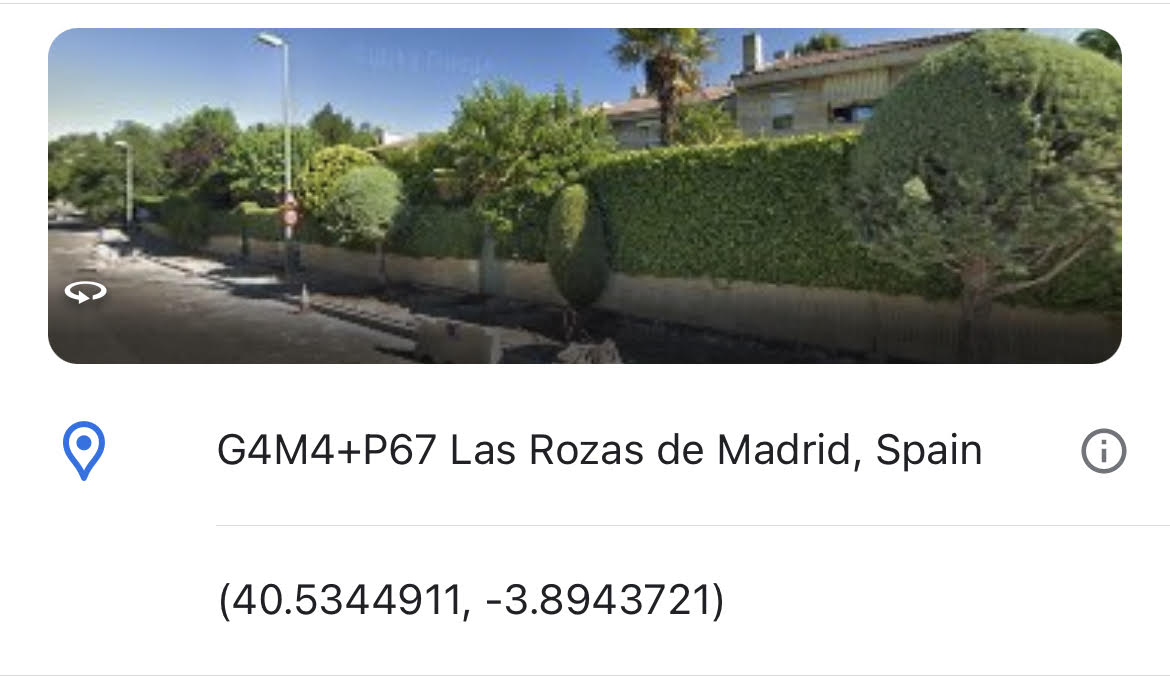
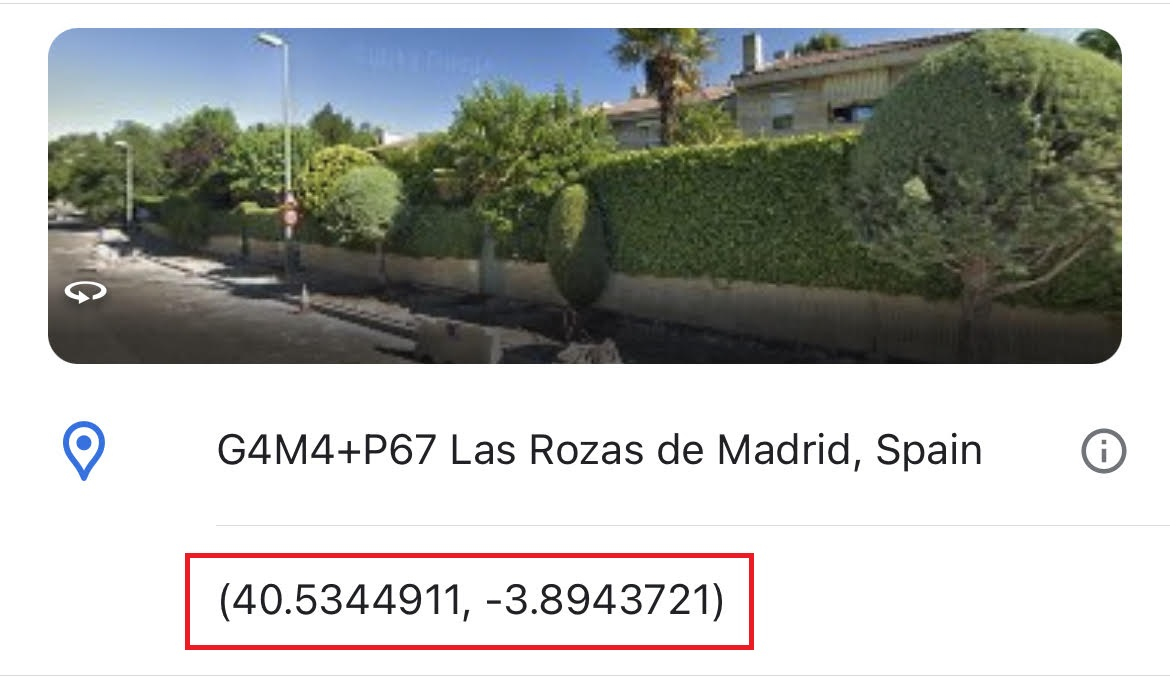
feat: adjust location explanations

Changed region(s): [[0.1538, 0.8018, 0.6462, 0.9559]]

diff --git a/components/LocationExplanation.js b/components/LocationExplanation.js
@@ -5,10 +5,10 @@ const LocationExplanation = () => {
     return(
     <details>
         <summary>What should go here?</summary>
-    <p className='location__explanation'>Copy the co-ordinates from the address bar on Google Maps or you can simply paste the whole URL! On mobile, simply copy the coordinates.</p>
-    <img className='location__image' id="location-explanation" alt="screenshot of part of a Google Street View URL with red box around co-ordinates" src={locationExplanation.src}></img>
-    <br />
-    <img className='location__image' id="location-explanation2" alt="screenshot from Google Street View app" height={200} src={locationExplanation2.src}></img>
+    <p className='location__explanation'>Simply paste the address from Google Maps. On mobile, simply copy the coordinates.</p>
+    <img className='location__image' width={'100%'} id="location-explanation" alt="screenshot of part of a Google Street View URL with red box around co-ordinates" src={locationExplanation.src}></img>
+    <p className='location__explanation'>OR</p>
+    <img className='location__image' id="location-explanation2" alt="screenshot from Google Street View app" height={150} src={locationExplanation2.src}></img>
     </details>
     );
 }

diff --git a/css/style.css b/css/style.css
@@ -37,6 +37,12 @@
   justify-content: center;
 }
 
+details {
+  border: 2px solid grey;
+  padding: 3px;
+  font-size: 80%;
+}
+
 /* Styles for Cards */
 .card {
   display: inline-block;
